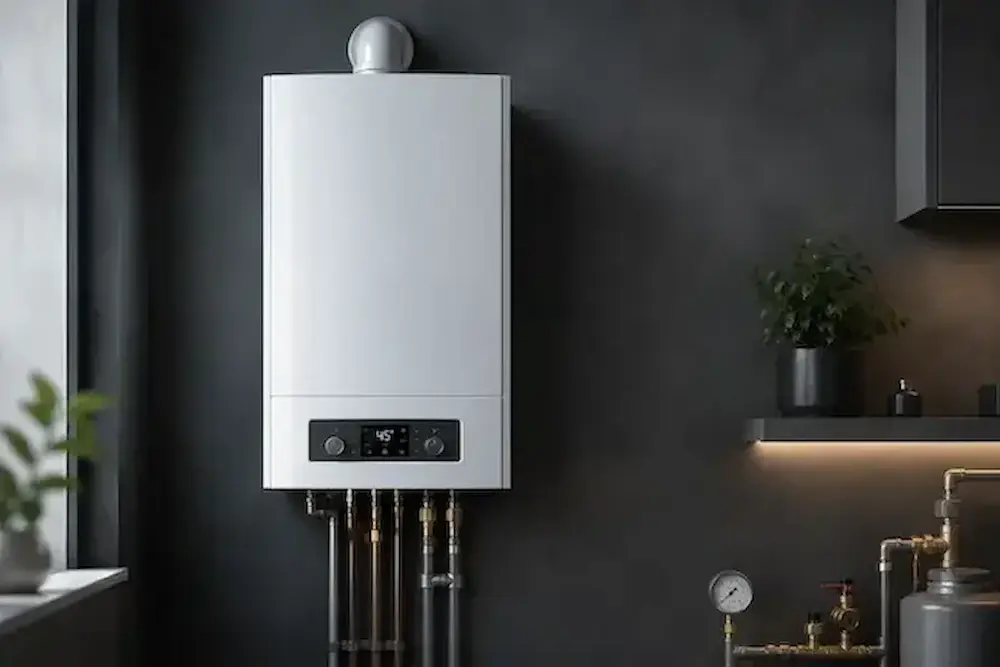
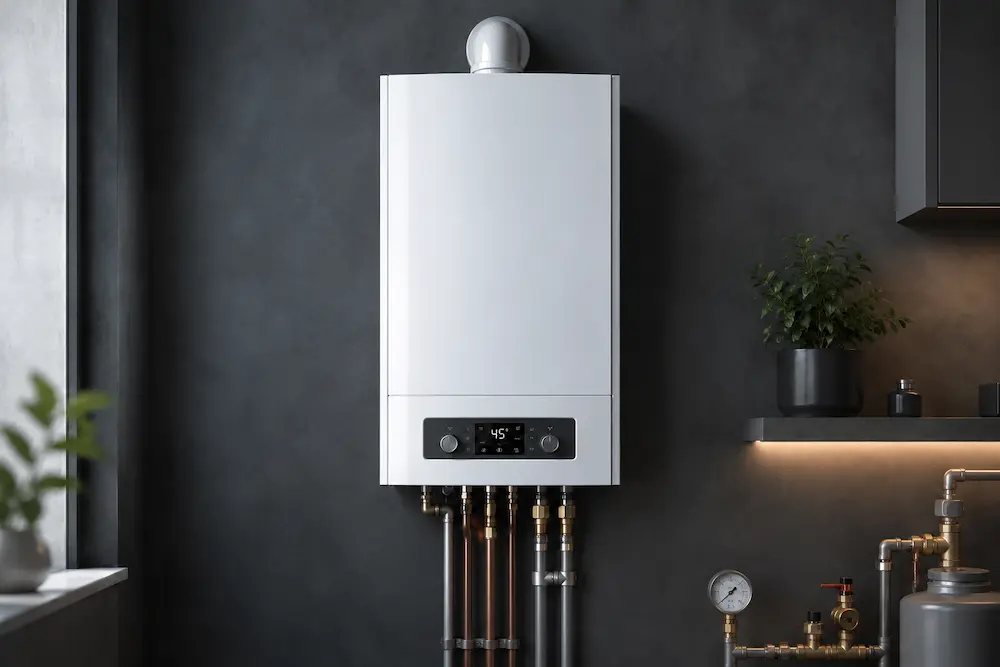
Add files via upload

diff --git a/index.html b/index.html
@@ -102,10 +102,10 @@
             
         <h4>Наши преимущества:</h4>
         
-        <p>Мы специализируемся только на ремонте газовых котлов.</p>
+        <p>Мы специализируемся только на ремонте газовых котлов;</p>
         <p>Большой опыт работы ремонта газовых котлов;</p>
         <p>Выезжаем в течении часа;</p>
-        <p>Работаем без выходных;</p>
+        <p>Работаем без выходных.</p>
 
       <h5>Устраняем следующие неисправности газовых котлов:</h5>
      <p>Котел не включается;</p>
@@ -139,7 +139,8 @@
      <p>Газовый котел разжигается с сильным хлопком;</p>
      <p>При включении горячей воды котел отключается;</p>
      <p>Сбросной клапан без конца выбрасывает воду;</p>
-     <p>Не стабильное горение из-за желтого пламени.</p> 
+     <p>Не стабильное горение из-за желтого пламени;</p>
+     <p>При включении горячей воды падает давление в системе отопления.</p> 
      
      
 </main>
